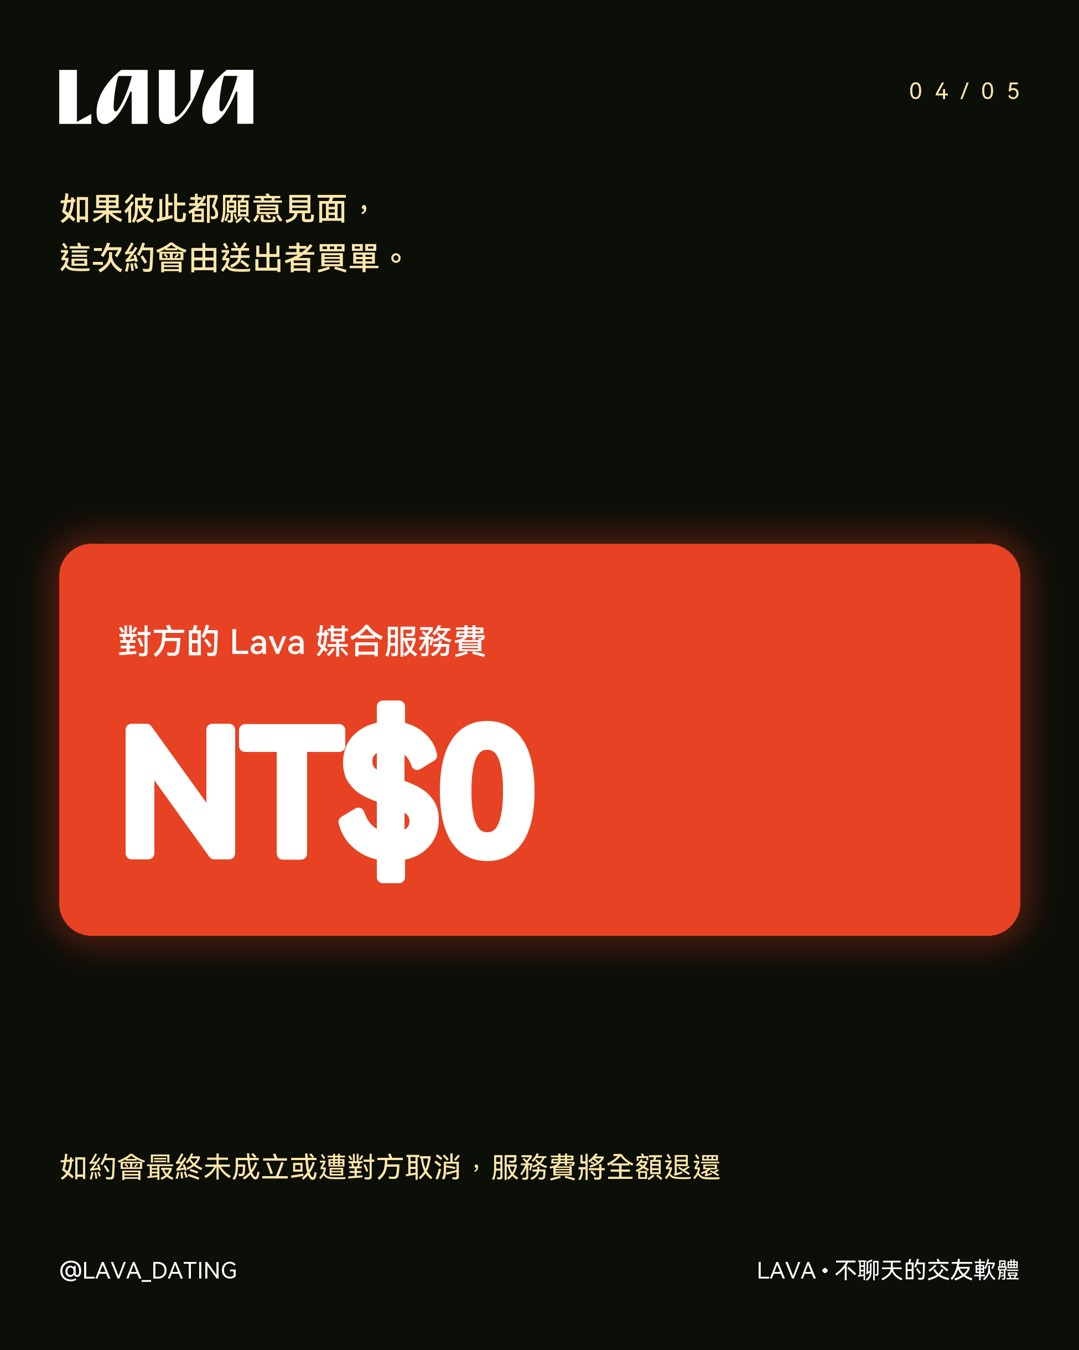
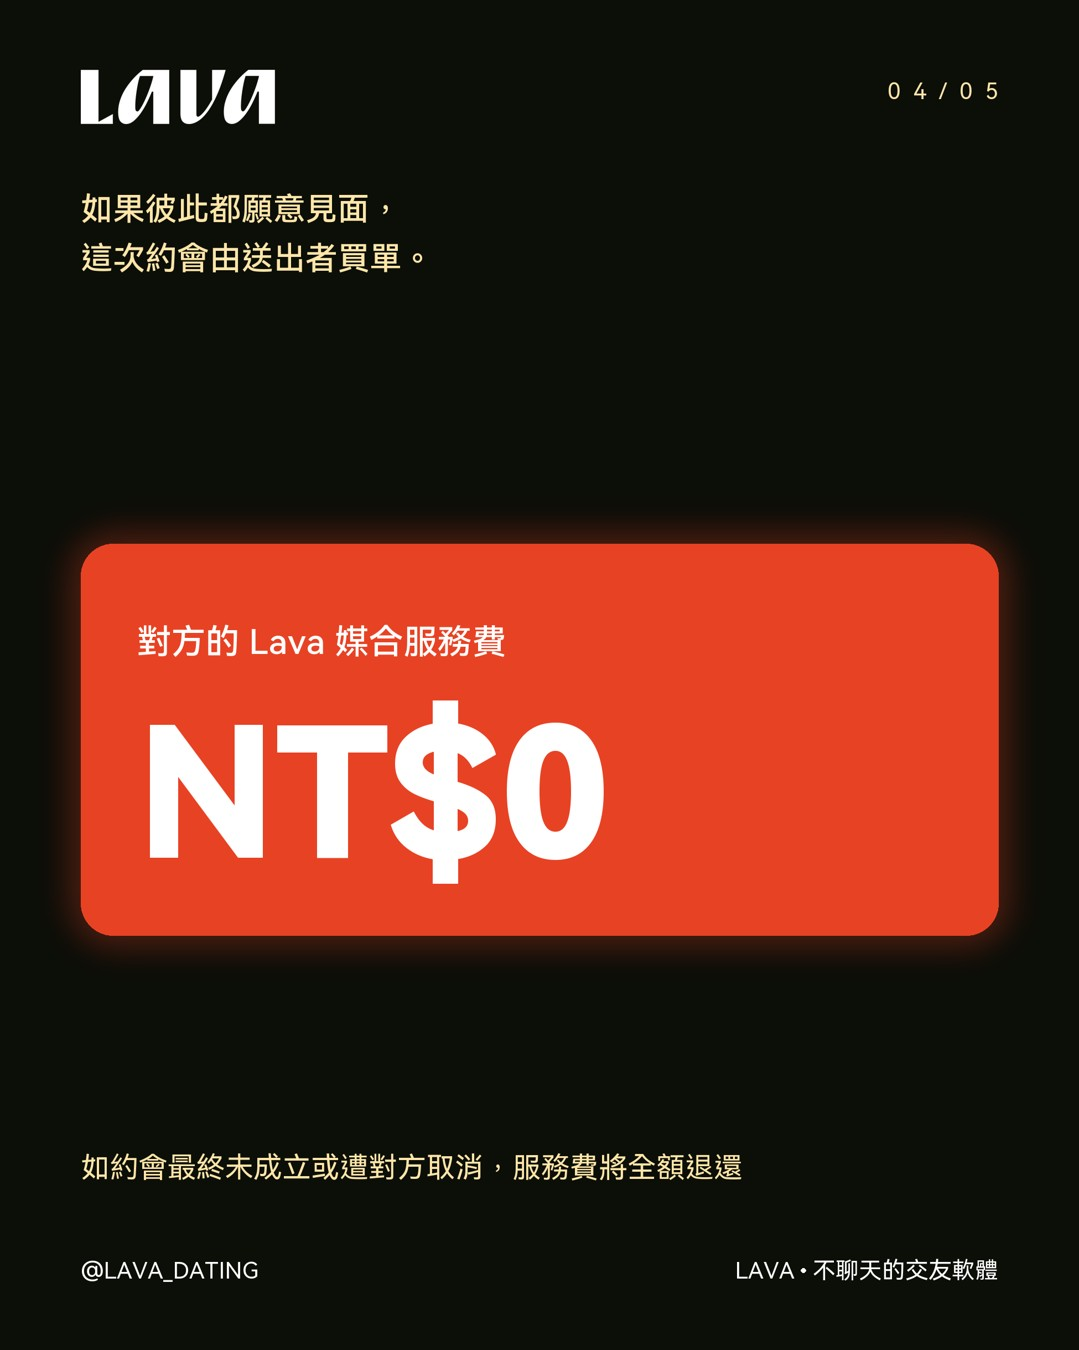
補齊品牌字重 Bold／Black，邊界對標原稿 0.075W
- 設計系統 fonts/ 補進 HarmonyOS Sans TC 的 Bold／Black／Light
  （原廠就有，本機 ~/Library/Fonts 也早有，只是資料夾沒收）
- 價格數字改用 Black：實測筆寬÷墨高 Medium 0.106、Bold 0.145、Black 0.169，
  原稿是 0.169——原稿本來就是 Black 畫的。描邊假粗體整套移除
- 尾板標語改用真 Bold，同樣移除描邊
- MX 0.055→0.075：原稿全頁邊界實測 0.075W（導言／註腳／footer／紅卡左緣
  量到的都是 81px@1080）。沿用知識型引擎的 0.055 讓每張都比原稿寬一點
- draw_footer 深底不再委派引擎公版（公版把邊界寫死 0.055，改 MX 會漏掉它），
  兩種底色都自己畫並取本檔 MX

diff --git a/scripts/render_product.py b/scripts/render_product.py
@@ -35,6 +35,13 @@ _spec = importlib.util.spec_from_file_location("rp5", _ENGINE)
 E = importlib.util.module_from_spec(_spec); _spec.loader.exec_module(E)
 
 W, H = E.W, E.H
+# 品牌字型的完整字重。設計系統的 fonts/ 原本只收了 Thin／Regular／Medium，
+# 於是尾板整版同一個重量、價格數字比原稿細三分之一，只能用描邊硬撐
+# （Jesse 2026-08-23：字重沒有層級）。Bold／Black 原廠就有，2026-08-23 補進 fonts/。
+# 實測：原稿 NT$0 的筆寬÷墨高＝0.169，Medium 0.106、Bold 0.145、Black 0.169——
+# 也就是原稿那個數字本來就是 Black 畫的，不是 Bold。
+F_BOLD  = E.BRAND + "/fonts/HarmonyOS_Sans_TC_Bold.ttf"
+F_BLACK = E.BRAND + "/fonts/HarmonyOS_Sans_TC_Black.ttf"
 # 品牌色票正本：Lava Design System/colors_and_type.css
 DARK  = (12, 14, 8)        # --olive-dark  #0C0E08
 CREAM = (255, 230, 169)    # --soft-yellow #FFE6A9
@@ -44,7 +51,10 @@ WHITE = (255, 255, 255)
 OFFWHITE = (245, 247, 242)  # --neutral-50 #F5F7F2，大字用；純白壓在近黑底上會刺眼
 DIM   = (30, 33, 24)       # 深底上的襯卡
 
-MX          = 0.055        # 左右邊界，與 render_post_v5 一致
+# 原稿全頁左右邊界實測 0.075W（導言、註腳、footer、紅卡左緣量到的都是 81/1080）。
+# 這裡原本沿用知識型引擎的 0.055，所以每一張的內容都比原稿寬一點點，
+# 疊起來就是「說不出哪裡但就是不一樣」（Jesse 2026-08-23 要求對標）。
+MX          = 0.075
 TOP_Y       = 0.052        # logo／頁碼上緣
 LEAD_FS     = 0.030        # 上方導言
 TITLE_FS    = 0.064        # 下方大標起始字級
@@ -81,9 +91,6 @@ FS_PRICE_AMOUNT = 0.168    # 原稿墨高 183px@1080 → 0.168W
 PRICE_PAD_X       = 0.061  # 筆位左內縮 ÷ 卡寬（56/918）
 PRICE_LABEL_TOP   = 0.207  # 標籤墨頂 ÷ 卡高（81/392）
 PRICE_AMOUNT_TOP  = 0.401  # 數字墨頂 ÷ 卡高（157/392）
-# 原稿數字的筆寬÷墨高＝0.169，品牌字型 Medium 只有 0.106，細了三分之一。
-# 沒有 Bold 可用，用描邊補回來；0.037×字級實測可還原到 0.172。
-PRICE_AMOUNT_STROKE = 0.037
 FS_PRICE_NOTE = 0.0267     # 原稿註腳墨高 28px@1080（先前 0.036 目測，大了三成）
 
 PRODUCT_TPL_ID = "tpl-product-intro-carousel"
@@ -179,20 +186,21 @@ def draw_logo(img, dark):
 
 
 def draw_footer(d, dark):
-    """深底沿用引擎公版；米底要換深色字，引擎那支寫死白色。"""
-    if dark:
-        return E.draw_footer(d)
+    """深底原本直接呼叫引擎公版，但公版把邊界寫死 0.055。產品版型的 MX 改成 0.075 之後
+    footer 會單獨留在舊位置、跟整頁差 0.02W（2026-08-23）。所以兩種底色都自己畫，
+    邊界一律取本檔的 MX，這樣以後改 MX 不會再漏掉某個元件。"""
+    col = WHITE if dark else INK
     fs = int(W * 0.022); f = ImageFont.truetype(E.F_REG, fs)
     y = H - int(H * 0.052) - fs
-    d.text((int(W * MX), y), "@LAVA_DATING", font=f, fill=INK)
+    d.text((int(W * MX), y), "@LAVA_DATING", font=f, fill=col)
     t1, t2 = "LAVA", "不聊天的交友軟體"
     w1 = d.textlength(t1, font=f); w2 = d.textlength(t2, font=f)
     dot_r = fs * 0.10; gap = fs * 0.38
     x = W - int(W * MX) - (w1 + gap*2 + w2)
-    d.text((x, y), t1, font=f, fill=INK)
+    d.text((x, y), t1, font=f, fill=col)
     cy = y + fs * 0.58
-    d.ellipse([x+w1+gap-dot_r, cy-dot_r, x+w1+gap+dot_r, cy+dot_r], fill=INK)
-    d.text((x + w1 + gap*2, y), t2, font=f, fill=INK)
+    d.ellipse([x+w1+gap-dot_r, cy-dot_r, x+w1+gap+dot_r, cy+dot_r], fill=col)
+    d.text((x + w1 + gap*2, y), t2, font=f, fill=col)
 
 
 # ── 文字塊 ──────────────────────────────────────────────────────────
@@ -421,10 +429,8 @@ def lay_price(img, d, slide, shot, dark, band):
     lab = (slide.get("price_label") or "").strip()
     amt = (slide.get("price_amount") or "").strip()
 
-    def _ink_text(txt, f, ink_top, sw=0):
-        bb = f.getbbox(txt, stroke_width=sw) if sw else f.getbbox(txt)
-        d.text((penx, ink_top - bb[1]), txt, font=f, fill=WHITE,
-               stroke_width=sw, stroke_fill=WHITE if sw else None)
+    def _ink_text(txt, f, ink_top):
+        d.text((penx, ink_top - f.getbbox(txt)[1]), txt, font=f, fill=WHITE)
 
     if lab:
         _ink_text(lab, ImageFont.truetype(E.F_MED, int(W * FS_PRICE_LABEL)),
@@ -433,14 +439,13 @@ def lay_price(img, d, slide, shot, dark, band):
         fs = int(W * FS_PRICE_AMOUNT)
         ink_top = by0 + int(chh * PRICE_AMOUNT_TOP)
         while fs > int(W * 0.05):
-            f = ImageFont.truetype(E.F_MED, fs)
-            sw = max(1, int(fs * PRICE_AMOUNT_STROKE))
-            bb = f.getbbox(amt, stroke_width=sw)
+            f = ImageFont.truetype(F_BLACK, fs)          # 原稿就是 Black
+            bb = f.getbbox(amt)
             if (bb[2] - bb[0] <= cw_ - 2 * int(cw_ * PRICE_PAD_X)
                     and ink_top + (bb[3] - bb[1]) <= by1 - int(chh * 0.10)):
                 break
             fs = int(fs * 0.93)
-        _ink_text(amt, f, ink_top, sw=max(1, int(fs * PRICE_AMOUNT_STROKE)))
+        _ink_text(amt, f, ink_top)
     if note:
         # 貼齊 footer 上方（原稿實測 0.862H），由下往上長，長句自動斷行
         lines = _recolor(E.wrap_semantic(note, _accent(dark), f_note, bx1 - bx0, d),
@@ -502,12 +507,11 @@ def _render_cta(slide, out_path, dark=True):
     img.paste(lg, (int(W * MX), y), lg); d = ImageDraw.Draw(img)
     y += lg.height + S_LG                    # 標語再往下讓一階
     fs_tag = int(W * 0.074)                  # 0.062 → 0.074
-    # 描邊從 0.022 收到 0.010：中文筆畫多，描太粗會把「歸」「線」的內部空隙糊掉，
-    # 看起來就是「字型怪怪的」。字級本身放大才是拉重量的主力，描邊只補最後一點。
-    tag_col = OFFWHITE if dark else INK      # 純白在近黑底上過刺眼（Jesse 2026-08-23）
+    # 改用真的 Bold 字重，不再描邊。描邊在中文會吃掉「歸」「線」的內部空隙，
+    # 放大後看起來就像選錯字型（Jesse 2026-08-23）。
+    tag_col = OFFWHITE if dark else INK      # 純白在近黑底上過刺眼
     d.text((int(W * MX), y), (slide.get("tagline") or "讓社交回歸線下"),
-           font=ImageFont.truetype(E.F_MED, fs_tag), fill=tag_col,
-           stroke_width=max(1, int(fs_tag * 0.010)), stroke_fill=tag_col)
+           font=ImageFont.truetype(F_BOLD, fs_tag), fill=tag_col)
     y += int(fs_tag * 1.25) + S_LG
     d.line([(int(W*MX), y), (int(W*MX) + int(W*0.075), y)], fill=RED, width=int(H*0.004))
     y += S_LG
